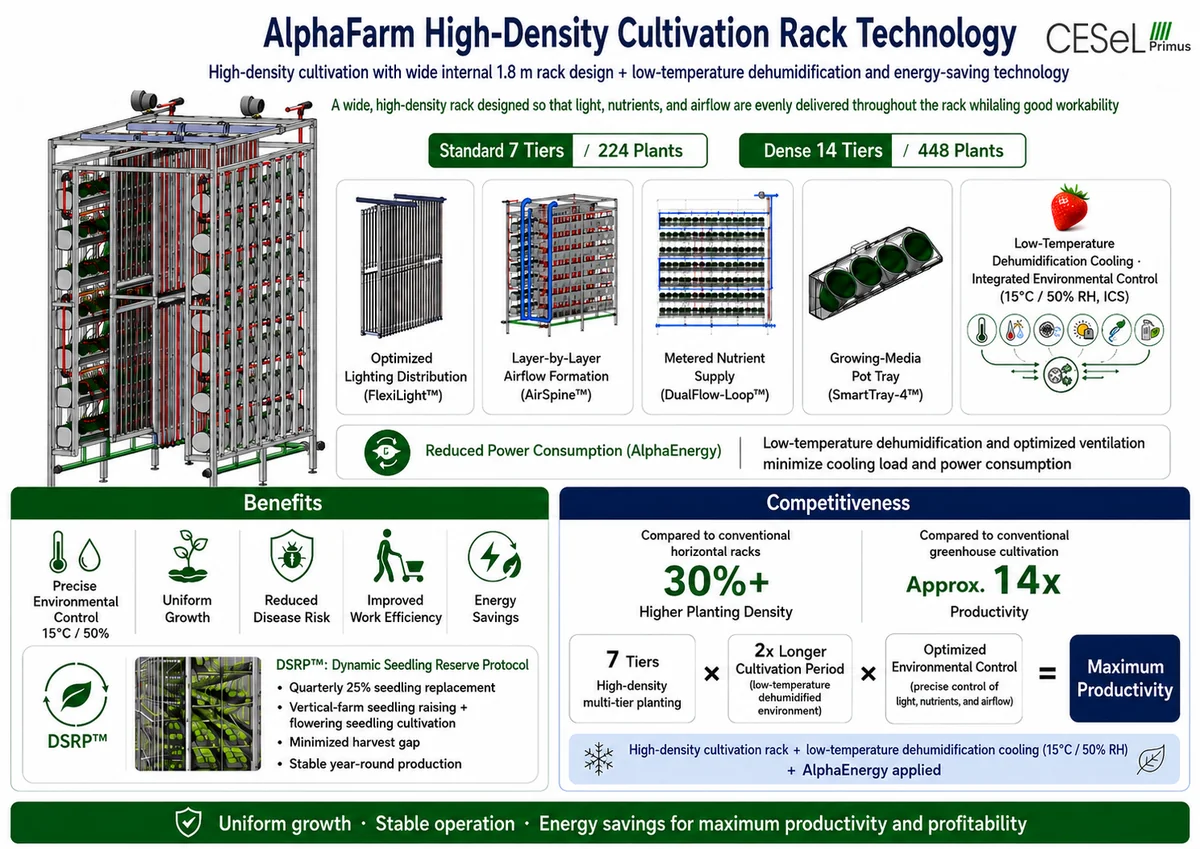
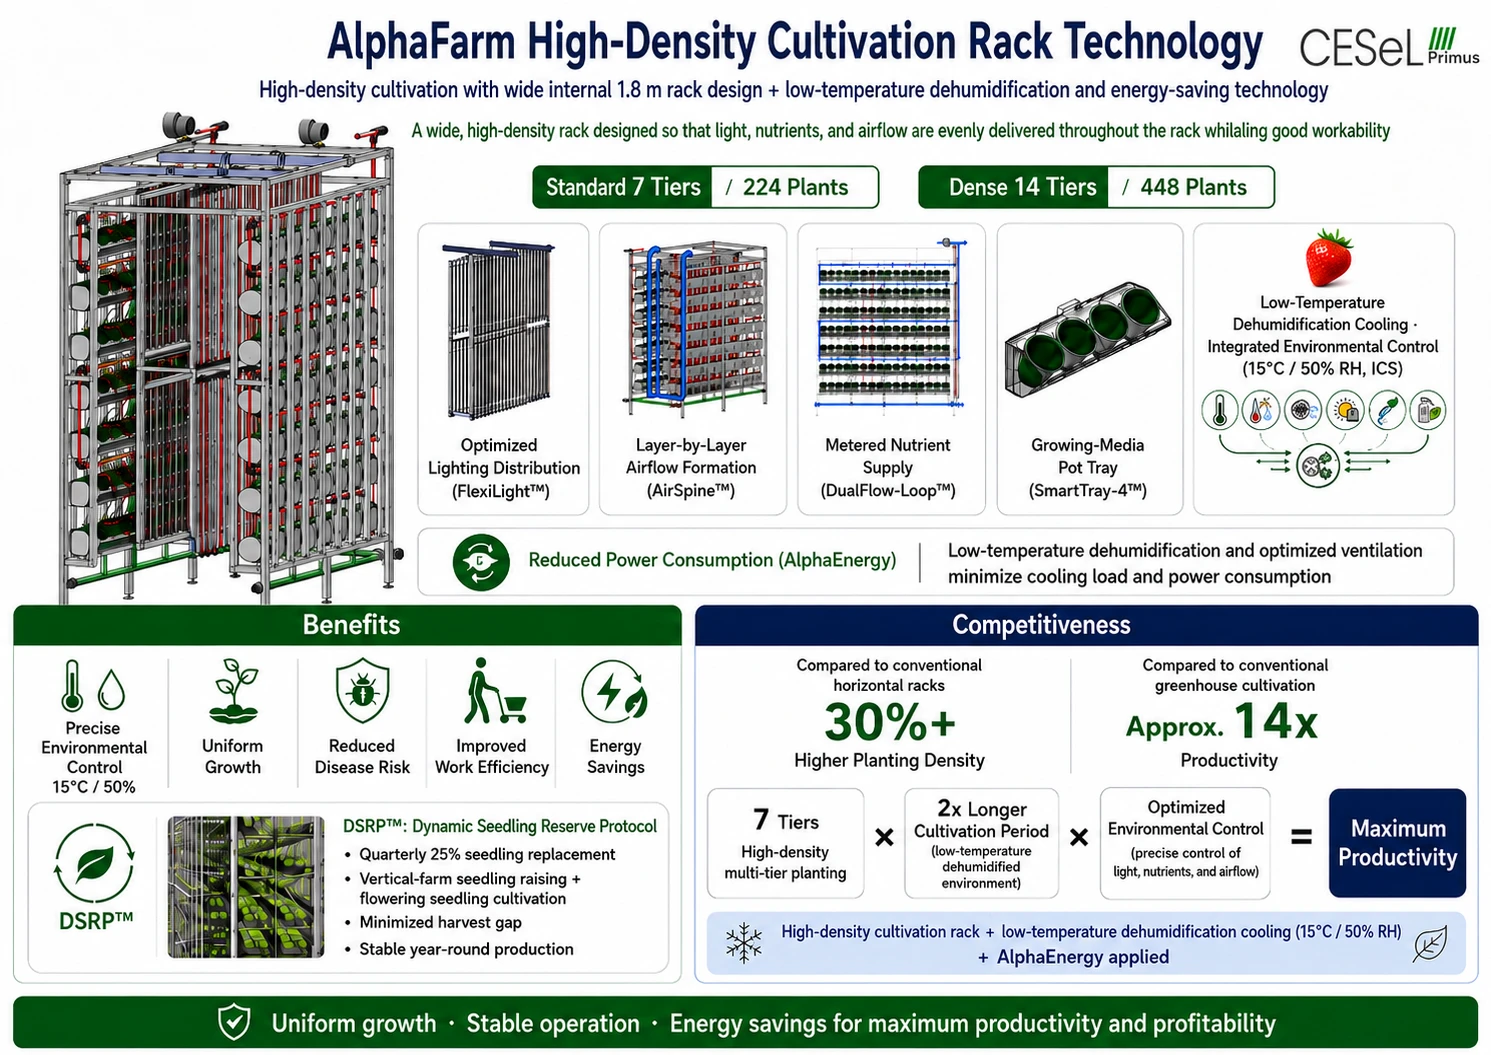
재배랙 섹션 이미지 교체 — 4탄 고밀도 재배랙 인포그래픽 적용 (국·영문)
- 홈 productionTech 재배랙 섹션이 잘못된 SOFC 이미지(alphacore-concept-2)를 참조하던 것을 4탄 '고밀도 재배랙 기술' 인포그래픽(series-4)으로 교체
- series-4.webp / series-4-en.webp를 SNS 4탄 고해상도 원본(1491x1055, 동일 비율)으로 갱신 — 인사이트 글 alphafarm-high-density-rack 히어로도 함께 선명해짐
- 이미지 종횡비 박스 800→849로 조정(CLS 정확도)
- 라인업 알파코어 썸네일(데이터센터 모델)은 SOFC 이미지 유지

diff --git a/app/home-content.ts b/app/home-content.ts
@@ -393,7 +393,7 @@ export const koContent: HomeContent = {
     titleLines: ["에코테크 환경을", "연중 생산성과 매출로 연결합니다."],
     intro:
       "AlphaFarm은 에너지와 물을 절감하는 것에 그치지 않습니다. 고밀도 정밀 재배랙과 연중 개화묘 공급기술을 결합하여 프리미엄 딸기의 공간 생산성, 품질 균일성, 생산 연속성을 높입니다.",
-    rackImage: "/media/concepts/alphacore-concept-2.webp",
+    rackImage: "/media/series/series-4.webp",
     rackImageAlt: "알파팜 고밀도 정밀 재배랙 — 정량관수·광량조절·에어덕트·슬릿형 화분 트레이 통합",
     rackBlock: {
       title: "고밀도 정밀 재배랙 기술",
@@ -1003,7 +1003,7 @@ export const enContent: HomeContent = {
     titleLines: ["Turning EcoTech conditions", "into continuous year-round production and revenue."],
     intro:
       "AlphaFarm goes beyond energy and water efficiency. It combines high-density precision cultivation racks with a continuous flowering-seedling supply system to improve space productivity, crop uniformity, and production continuity.",
-    rackImage: "/media/concepts/alphacore-concept-2.webp",
+    rackImage: "/media/series/series-4-en.webp",
     rackImageAlt: "AlphaFarm high-density precision cultivation rack — integrated precision irrigation, adjustable lighting, air ducts, and slit-type pot trays",
     rackBlock: {
       title: "High-Density Precision Cultivation Rack Technology",

diff --git a/app/HomePage.tsx b/app/HomePage.tsx
@@ -613,7 +613,7 @@ function ProductionTechSection({ content }: { content: HomeContent }) {
                 src={productionTech.rackImage}
                 alt={productionTech.rackImageAlt}
                 width={1200}
-                height={800}
+                height={849}
                 className="h-auto w-full"
                 sizes="(min-width: 1024px) 560px, 92vw"
               />
